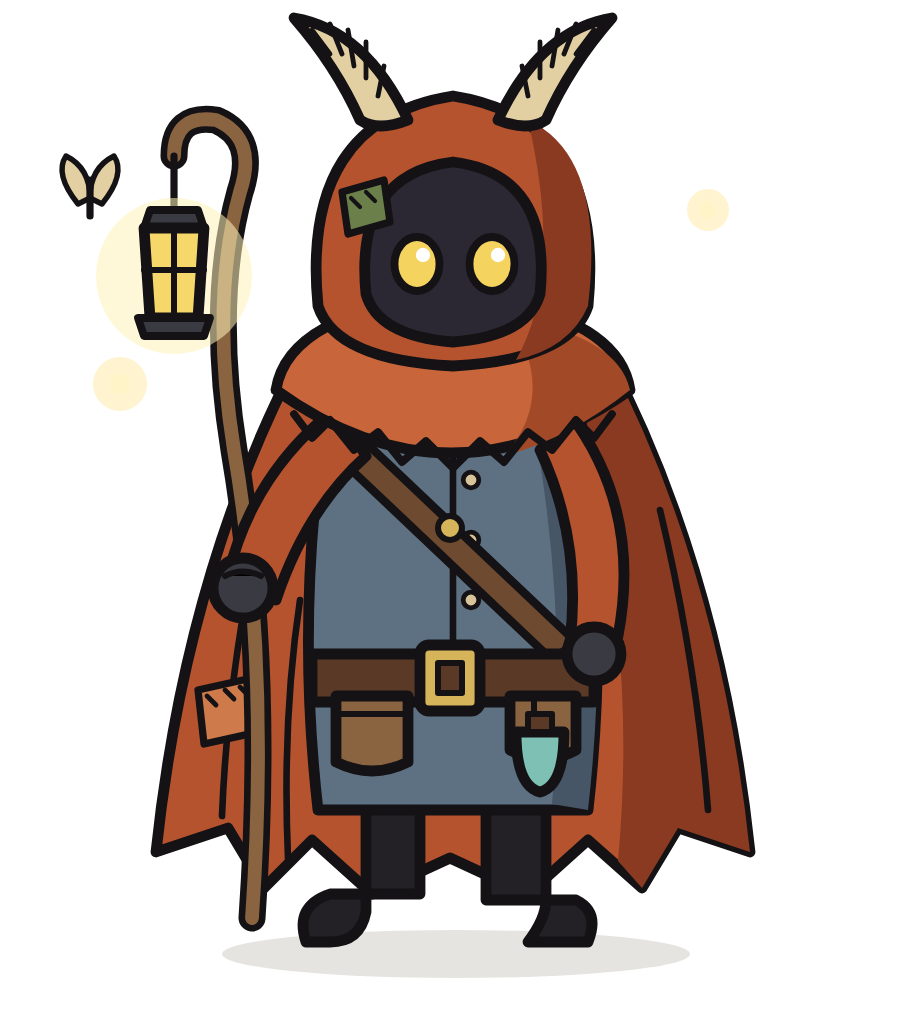
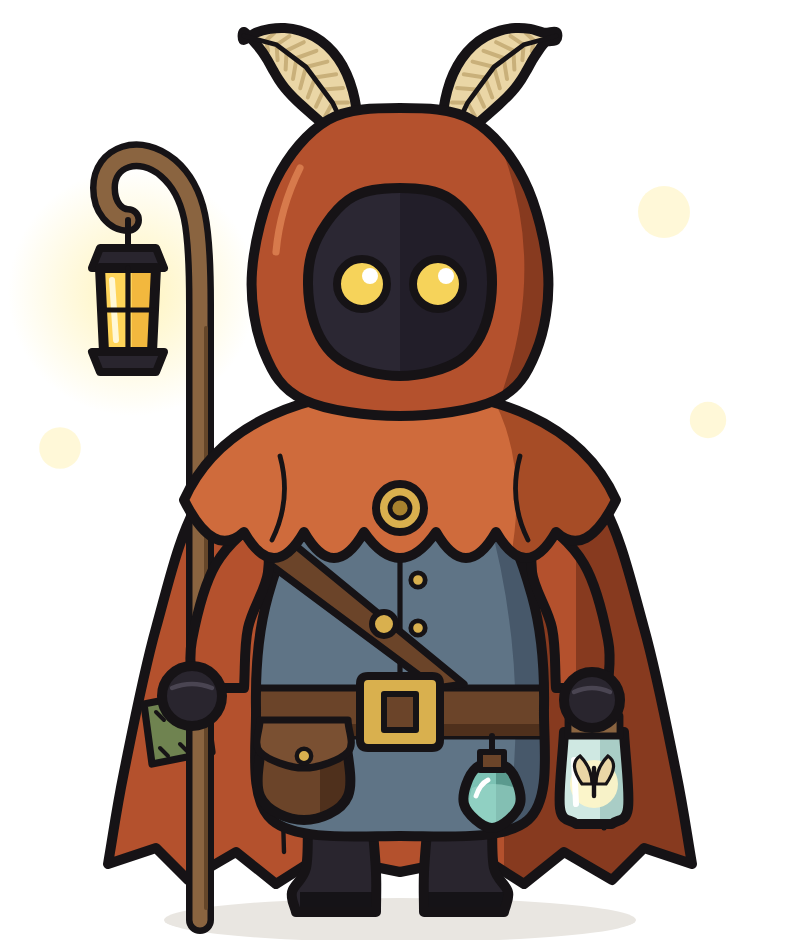
Redraw Lantern Keeper concept: generated symmetric vector with clean cel shading
Claude-Session: https://claude.ai/code/session_018BwE4H1VXiQ1LjFS2sxiAb

diff --git a/concepts/src/moth_keeper.js b/concepts/src/moth_keeper.js
@@ -1,0 +1,134 @@
+// Генератор персонажа «Хранитель фонаря»: зеркальная симметрия, гладкие кривые, чистый cel-shading
+const { smooth } = require('../../game/tools/art/lib');
+const CX = 200, OUT = '#161316', W = 5;
+let id = 0;
+const mir = (pts) => { // правая половина сверху вниз → замкнутый симметричный контур
+  const r = pts, l = pts.slice(1, -1).reverse().map(([x, y, s]) => [2 * CX - x, y, s]);
+  return smooth(r.concat(l));
+};
+const P = (d, fill, o = {}) => `<path d="${d}" fill="${fill}" stroke="${o.stroke || OUT}" stroke-width="${o.w ?? W}" stroke-linejoin="round" stroke-linecap="round"${o.extra || ''}/>`;
+// фигура с тенью внутри (clip)
+function shaded(d, fill, shadowD, shadowCol, extraInside = '') {
+  const c = 'c' + (id++);
+  return `<clipPath id="${c}"><path d="${d}"/></clipPath><path d="${d}" fill="${fill}"/>` +
+    `<g clip-path="url(#${c})">${shadowD ? `<path d="${shadowD}" fill="${shadowCol}"/>` : ''}${extraInside}</g>` + P(d, 'none');
+}
+const line = (d, w = 2.6, col = OUT) => `<path d="${d}" fill="none" stroke="${col}" stroke-width="${w}" stroke-linecap="round" stroke-linejoin="round"/>`;
+const circ = (x, y, r, fill, w = W) => `<circle cx="${x}" cy="${y}" r="${r}" fill="${fill}" stroke="${OUT}" stroke-width="${w}"/>`;
+
+// палитра
+const C = {
+  cloak: '#b4512d', cloakS: '#873a1f', mantle: '#cf6b3c', mantleS: '#a64c26',
+  tunic: '#5f7486', tunicS: '#47586a', leather: '#6b4429', leatherS: '#4f301c', brass: '#d9b04e', brassS: '#a8822e',
+  dark: '#29252e', face: '#2b2733', eye: '#f6d35a', feather: '#ead6a6', featherS: '#c9b07a', wood: '#8a6440', woodS: '#654629',
+  glass: '#cfe8e2', glow: '#fff1b0', patch: '#6f8350',
+};
+
+let s = '';
+// мягкое свечение фонаря
+s += `<defs><radialGradient id="glow"><stop offset="0" stop-color="#fff3b8" stop-opacity="0.95"/><stop offset="1" stop-color="#fff3b8" stop-opacity="0"/></radialGradient></defs>`;
+s += `<ellipse cx="${CX}" cy="446" rx="118" ry="11" fill="#e9e6e1"/>`;
+s += `<circle cx="66" cy="132" r="62" fill="url(#glow)"/>`;
+
+// --- плащ сзади ---
+const cloak = mir([[CX, 196], [262, 206], [300, 236], [322, 300], [338, 372], [346, 418, 1], [322, 410, 1], [306, 426, 1], [282, 412, 1], [262, 428, 1], [240, 414, 1], [CX, 422, 1]]);
+s += shaded(cloak, C.cloak, `M${CX + 52} 150 L360 150 L360 440 L${CX + 52} 440 Z`, C.cloakS,
+  line('M120 270 Q104 340 98 400') + line('M280 270 Q296 340 302 400') + line('M146 300 Q140 360 142 412', 2.2));
+// заплатка
+s += P('M72 338 L102 332 L106 362 L76 368 Z', C.patch, { w: 3.6 }) + line('M78 342 l4 4 M86 340 l4 4 M94 338 l4 4 M80 360 l4 4 M90 358 l4 4', 2);
+
+// --- ноги ---
+for (const sx of [-1, 1]) {
+  const x = CX + sx * 30;
+  const boot = smooth([[x - 16 * sx, 396, 1], [x + 16 * sx, 396, 1], [x + 17 * sx, 420], [x + 24 * sx, 432], [x + 22 * sx, 442, 1], [x - 18 * sx, 442, 1], [x - 18 * sx, 422]]);
+  s += shaded(boot, C.dark, `M${x - 20} 432 L${x + 30} 432 L${x + 30} 446 L${x - 20} 446 Z`, '#151317');
+}
+
+// --- туловище ---
+const body = mir([[CX, 236], [244, 240], [266, 284], [272, 340], [264, 396], [CX, 404]]);
+s += shaded(body, C.tunic, `M240 230 Q268 320 252 410 L300 410 L300 230 Z`, C.tunicS,
+  line(`M${CX} 262 L${CX} 330`, 2.6) + [276, 300].map((y) => circ(CX + 9, y, 3.6, C.brass, 2.4)).join('') +
+  // пояс
+  `<path d="M100 330 L300 330 L300 354 L100 354 Z" fill="${C.leather}" stroke="${OUT}" stroke-width="3.4"/>` + `<path d="M100 348 L300 348 L300 354 L100 354 Z" fill="${C.leatherS}"/>`);
+// ремень через грудь
+s += P('M142 254 L232 328 L218 330 L132 266 Z', C.leather, { w: 3.6 }) + circ(192, 298, 6, C.brass, 3);
+
+s += P('M184 324 L216 324 Q220 324 220 328 L220 356 Q220 360 216 360 L184 360 Q180 360 180 356 L180 328 Q180 324 184 324 Z', C.brass, { w: 4 });
+s += P('M192 333 L208 333 L208 351 L192 351 Z', C.leather, { w: 3 });
+// --- сумка на поясе и бутылочка ---
+s += shaded(smooth([[132, 348, 1], [172, 348, 1], [174, 384], [152, 396], [130, 384]]), C.leather, 'M160 340 L180 340 L180 400 L160 400 Z', C.leatherS);
+s += P(smooth([[130, 346, 1], [174, 346, 1], [174, 362], [152, 370], [130, 362]]), '#7a5032', { w: 3.6 }) + circ(152, 364, 3.6, C.brass, 2.2);
+s += line('M246 354 L246 364', 3);
+s += shaded(smooth([[238, 370], [254, 370], [260, 388], [246, 400], [232, 388]]), '#7cc2b4', 'M248 360 L270 360 L270 404 L248 404 Z', '#5a9a8e',
+  '<path d="M236 380 Q246 376 258 380 L262 404 L230 404 Z" fill="#9fd8cc" opacity="0.6"/>');
+s += P('M240 362 L252 362 L252 371 L240 371 Z', C.leather, { w: 3 });
+s += line('M238 384 Q240 378 244 376', 2.4, '#ffffff');
+
+// --- посох и фонарь (за левой рукой) ---
+const staff = 'M100 446 L100 138 C100 100 98 82 84 70 C70 58 52 64 52 80 C52 90 58 96 64 96';
+s += line(staff, 14, OUT) + line(staff, 7.5, C.wood) + line('M103 440 L103 150', 2, C.woodS);
+s += line('M64 96 L64 110', 3);
+s += P('M50 110 L78 110 L82 120 L46 120 Z', C.dark, { w: 4 });
+s += shaded('M50 120 L78 120 L76 162 L52 162 Z', '#ffd55a', 'M66 118 L82 118 L82 166 L66 166 Z', '#f2b83e', '<path d="M56 126 L58 156" stroke="#fff8d8" stroke-width="3" stroke-linecap="round"/>');
+s += line('M64 120 L64 162 M51 141 L77 141', 2.6);
+s += P('M46 162 L82 162 L78 172 L50 172 Z', C.dark, { w: 4 });
+
+// --- руки ---
+for (const sx of [-1, 1]) {
+  const sleeve = smooth([[CX + sx * 70, 248], [CX + sx * 92, 268], [CX + sx * 104, 306], [CX + sx * 104, 330, 1], [CX + sx * 78, 330, 1], [CX + sx * 76, 300], [CX + sx * 66, 272]]);
+  s += shaded(sleeve, C.cloak, sx > 0 ? `M${CX + 88} 240 L320 240 L320 340 L${CX + 88} 340 Z` : '', C.cloakS);
+}
+// банка с мотыльком в правой руке
+s += shaded(smooth([[282, 352, 1], [312, 352, 1], [314, 390], [306, 398, 1], [288, 398, 1], [280, 390]]), C.glass, 'M300 346 L320 346 L320 402 L300 402 Z', '#a9cdc6',
+  `<circle cx="297" cy="378" r="12" fill="#fff6c8" opacity="0.9"/>` + line('M287 366 L288 388', 3, '#ffffff'));
+s += `<path d="M291 378 Q284 368 290 364 Q296 370 296 378 Z M303 378 Q310 368 304 364 Q298 370 298 378 Z" fill="${C.feather}" stroke="${OUT}" stroke-width="1.6"/>` + line('M297 370 L297 384', 2.2);
+s += P('M284 344 L310 344 L310 354 L284 354 Z', C.wood, { w: 3.4 });
+s += circ(96, 334, 15, C.dark) + line('M86 330 Q96 326 106 330', 2.2, '#4a4552');
+s += circ(296, 336, 14, C.dark) + line('M287 332 Q296 328 305 332', 2.2, '#4a4552');
+
+// --- накидка с фестонами ---
+let m = `M${CX} 180 C246 182 290 196 308 236`;
+const lobes = [308, 278, 248, 218, 182, 152, 122, 92];
+for (let i = 0; i < lobes.length - 1; i++) { const a = lobes[i], b = lobes[i + 1], mid = (a + b) / 2; m += ` Q${mid} ${i === 0 || i === lobes.length - 2 ? 266 : 278} ${b} ${i === lobes.length - 2 ? 236 : 252}`; }
+m += ` C110 196 154 182 ${CX} 180 Z`;
+s += shaded(m, C.mantle, 'M236 170 Q270 210 252 280 L320 280 L320 170 Z', C.mantleS,
+  line('M140 214 Q146 236 136 256 M260 214 Q254 236 264 256', 2.4));
+s += circ(CX, 240, 12, C.brass, 4) + circ(CX, 240, 5, C.brassS, 2.4);
+
+// --- антенны-перья ---
+function antenna(sx) {
+  const b = [CX + sx * 22, 62], c = [CX + sx * 44, 6], t = [CX + sx * 78, 4];
+  const pt = (k) => [(1 - k) ** 2 * b[0] + 2 * (1 - k) * k * c[0] + k * k * t[0], (1 - k) ** 2 * b[1] + 2 * (1 - k) * k * c[1] + k * k * t[1]];
+  const L = [], R = [];
+  for (let i = 0; i <= 12; i++) {
+    const k = i / 12, [x, y] = pt(k), [x2, y2] = pt(Math.min(1, k + 0.01));
+    const a = Math.atan2(y2 - y, x2 - x), wdt = 13 * Math.sin(Math.PI * Math.min(1, k * 1.08)) + 2;
+    L.push([x + Math.cos(a - Math.PI / 2) * wdt, y + Math.sin(a - Math.PI / 2) * wdt]);
+    R.push([x + Math.cos(a + Math.PI / 2) * wdt, y + Math.sin(a + Math.PI / 2) * wdt]);
+  }
+  const d = smooth(L.concat(R.reverse()));
+  let barbs = '';
+  for (let i = 2; i <= 10; i++) { const k = i / 12, [x, y] = pt(k), [x2, y2] = pt(k + 0.01), a = Math.atan2(y2 - y, x2 - x); for (const sg of [-1, 1]) { const w2 = 11 * Math.sin(Math.PI * k); barbs += `M${x.toFixed(1)} ${y.toFixed(1)}L${(x + Math.cos(a + sg * 2.1) * w2).toFixed(1)} ${(y + Math.sin(a + sg * 2.1) * w2).toFixed(1)}`; } }
+  let spine = 'M' + [0, 0.25, 0.5, 0.75, 1].map((k) => pt(k).map((v) => v.toFixed(1)).join(' ')).join(' L');
+  return shaded(d, C.feather, null, null, line(barbs, 2, C.featherS)) + line(spine, 2.4);
+}
+s += antenna(-1) + antenna(1);
+
+// --- капюшон и лицо ---
+const hood = mir([[CX, 40], [236, 46], [262, 76], [274, 122], [268, 162], [248, 186], [CX, 194]]);
+s += shaded(hood, C.cloak, 'M236 30 Q284 110 244 200 L300 200 L300 30 Z', C.cloakS,
+  line('M150 70 Q140 90 138 112', 3.6, '#d77a4c'));
+const faceD = mir([[CX, 80], [226, 86], [244, 112], [244, 144], [230, 166], [CX, 174]]);
+s += shaded(faceD, C.face, `M${CX} 70 L250 70 L250 180 L${CX} 180 Z`, '#221e29');
+for (const sx of [-1, 1]) {
+  const ex = CX + sx * 19;
+  s += circ(ex, 128, 12.5, C.eye, 4);
+  s += `<circle cx="${ex + 4}" cy="124" r="4" fill="#ffffff"/>`;
+}
+// мотыльки-огоньки
+for (const [x, y, k] of [[332, 92, 1], [30, 210, 0.8], [354, 196, 0.7]]) {
+  s += `<circle cx="${x}" cy="${y}" r="${13 * k}" fill="#fff3b8" opacity="0.55"/><circle cx="${x}" cy="${y}" r="${4 * k}" fill="#fff8d8"/>`;
+}
+const svg = `<svg xmlns="http://www.w3.org/2000/svg" width="800" height="940" viewBox="0 -14 400 470"><rect x="0" y="-14" width="400" height="470" fill="#ffffff"/>${s}</svg>`;
+require('fs').writeFileSync(__dirname + '/../moth_keeper.svg', svg);
+console.log('ok');
